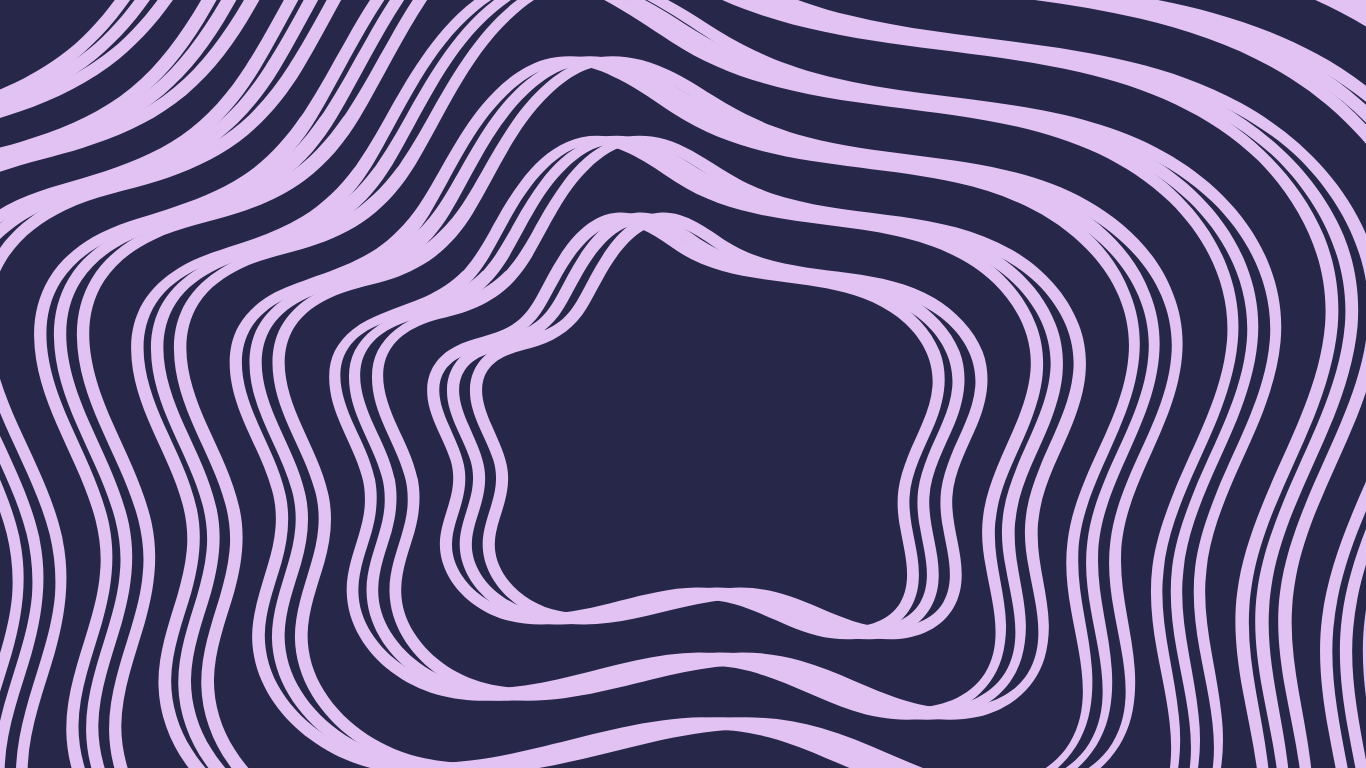
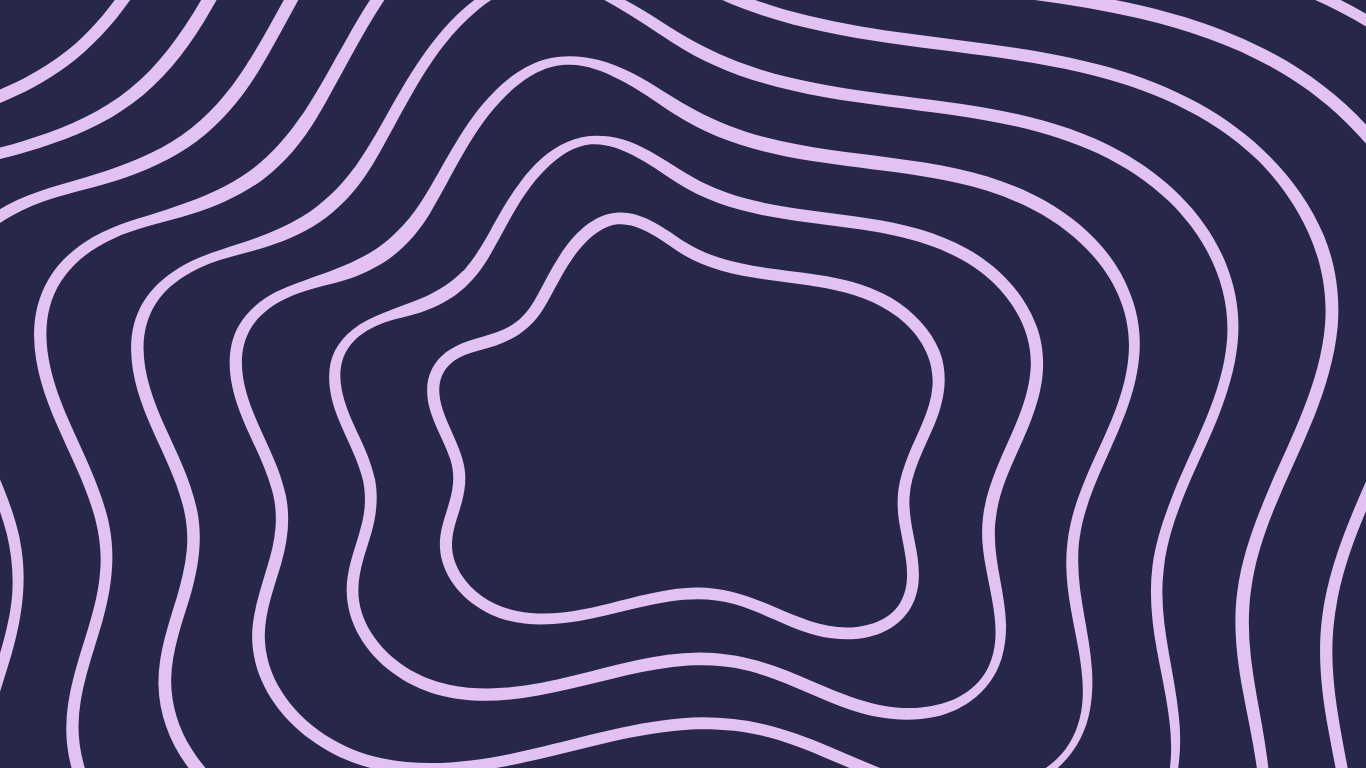
estilização com background do detalhe eventos

diff --git a/frontsonora/src/components/EventoDetalhes/EventoDetalhes.css b/frontsonora/src/components/EventoDetalhes/EventoDetalhes.css
@@ -1,12 +1,32 @@
+.fundo-fixo {
+    position: fixed;
+    top: 0;
+    left: 0;
+    width: 100vw;
+    height: 100vh;
+    background-image: url('../../../public/images/detalheevento.png');
+    background-size: cover;
+    background-position: center;
+    background-repeat: no-repeat;
+    z-index: -1;
+}
+
+html, body, #root {
+  margin: 0;
+  padding: 0;
+  background: transparent !important;
+}
+
 .evento-detalhes-container {
     font-family: 'Arial', sans-serif;
-    color: #333;
+    color: #564A72;
     max-width: 900px;
     margin: 40px auto;
     padding: 20px;
     background-color: #EDE6F2;
     border-radius: 10px;
     box-shadow: 0 4px 15px rgba(0, 0, 0, 0.1);
+    margin-bottom: 5rem;
 }
 .cabecalho {
     display: flex;
@@ -17,7 +37,7 @@
 }
 .cabecalho button {
     background: none;
-    border: 1px solid #ccc;
+    border: 1px solid #564A72;
     padding: 10px 15px;
     border-radius: 5px;
     cursor: pointer;

diff --git a/frontsonora/src/components/EventoDetalhes/EventoDetalhes.jsx b/frontsonora/src/components/EventoDetalhes/EventoDetalhes.jsx
@@ -5,8 +5,11 @@ import './EventoDetalhes.css';
 import { FaCalendarAlt } from "react-icons/fa";
 import { MdPlace } from "react-icons/md";
 import { IoMdMusicalNotes } from "react-icons/io";
+import useTitle from '../../hooks/useTitle';
 
 const EventoDetalhes = () => {
+    useTitle('Dados Evento - Sonora');
+
     const { id } = useParams();
     const navigate = useNavigate();
 
@@ -259,6 +262,9 @@ const EventoDetalhes = () => {
 
 
     return (
+        
+        <>
+        <div className="fundo-fixo"></div>
         <div className="evento-detalhes-container">
             <div className="cabecalho">
                 <button onClick={() => navigate(-1)}>&larr; Voltar</button>
@@ -361,6 +367,8 @@ const EventoDetalhes = () => {
                 </div>
             </div>
         </div>
+
+        </>
     );
 };
 

diff --git a/frontsonora/src/pages/Home.jsx b/frontsonora/src/pages/Home.jsx
@@ -4,7 +4,7 @@ import Eventos from '../components/Eventos/eventos';
 import Carrossel from '../components/Carrossel/carrossel.jsx';
 import InfoEvento from '../components/InfoEvento/InfoEvento';
 import './css/global.css';
-import React, { useState, useEffect } from 'react';
+import { useState, useEffect } from 'react';
 import useTitle from '../hooks/useTitle';
 import { Routes, Route, useNavigate } from 'react-router-dom';
 import axios from 'axios';
